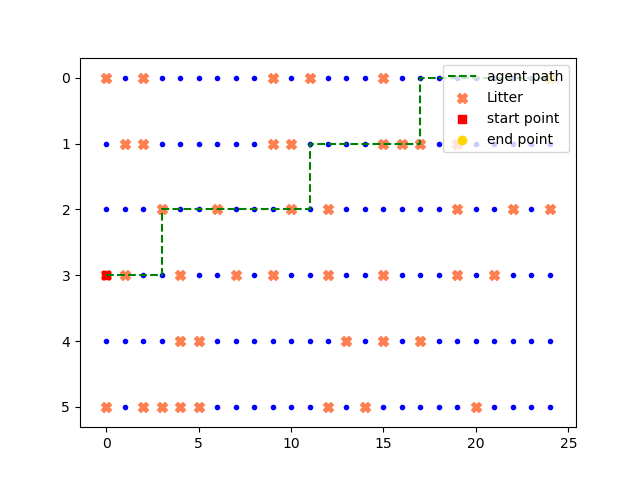
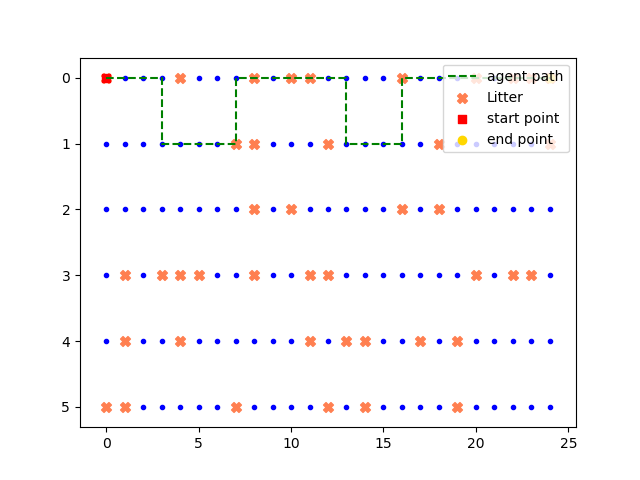
Saved sidewalk policy to plots folder

diff --git a/train.py b/train.py
@@ -31,13 +31,8 @@ sR = 3
 policy_dir = "./policy/"
 fname_policy = "./policy/sidewalk_policy.npy"
 
+img_dir = "./plots/"
 
-# 1 is an obstacle, 0 is an empty cell
-# dist = [1,0,0,0,0]
-#
-# num_tiles = rows * cols
-#
-# world = np.array([np.random.choice(dist) for i in range (num_tiles)]).reshape((rows, cols))
 
 # make dir for policy
 if not os.path.exists(policy_dir):
@@ -167,6 +162,4 @@ plt.plot(pj, pi, color = 'green', linestyle = '--', label = 'agent path')
 plt.plot(pj[-1], pi[-1], color = 'gold', marker = 'o')
 plt.legend(loc = 'upper right')
 
-#
-plt.show()
-
+plt.savefig(img_dir + "sidewalk_policy.png")
